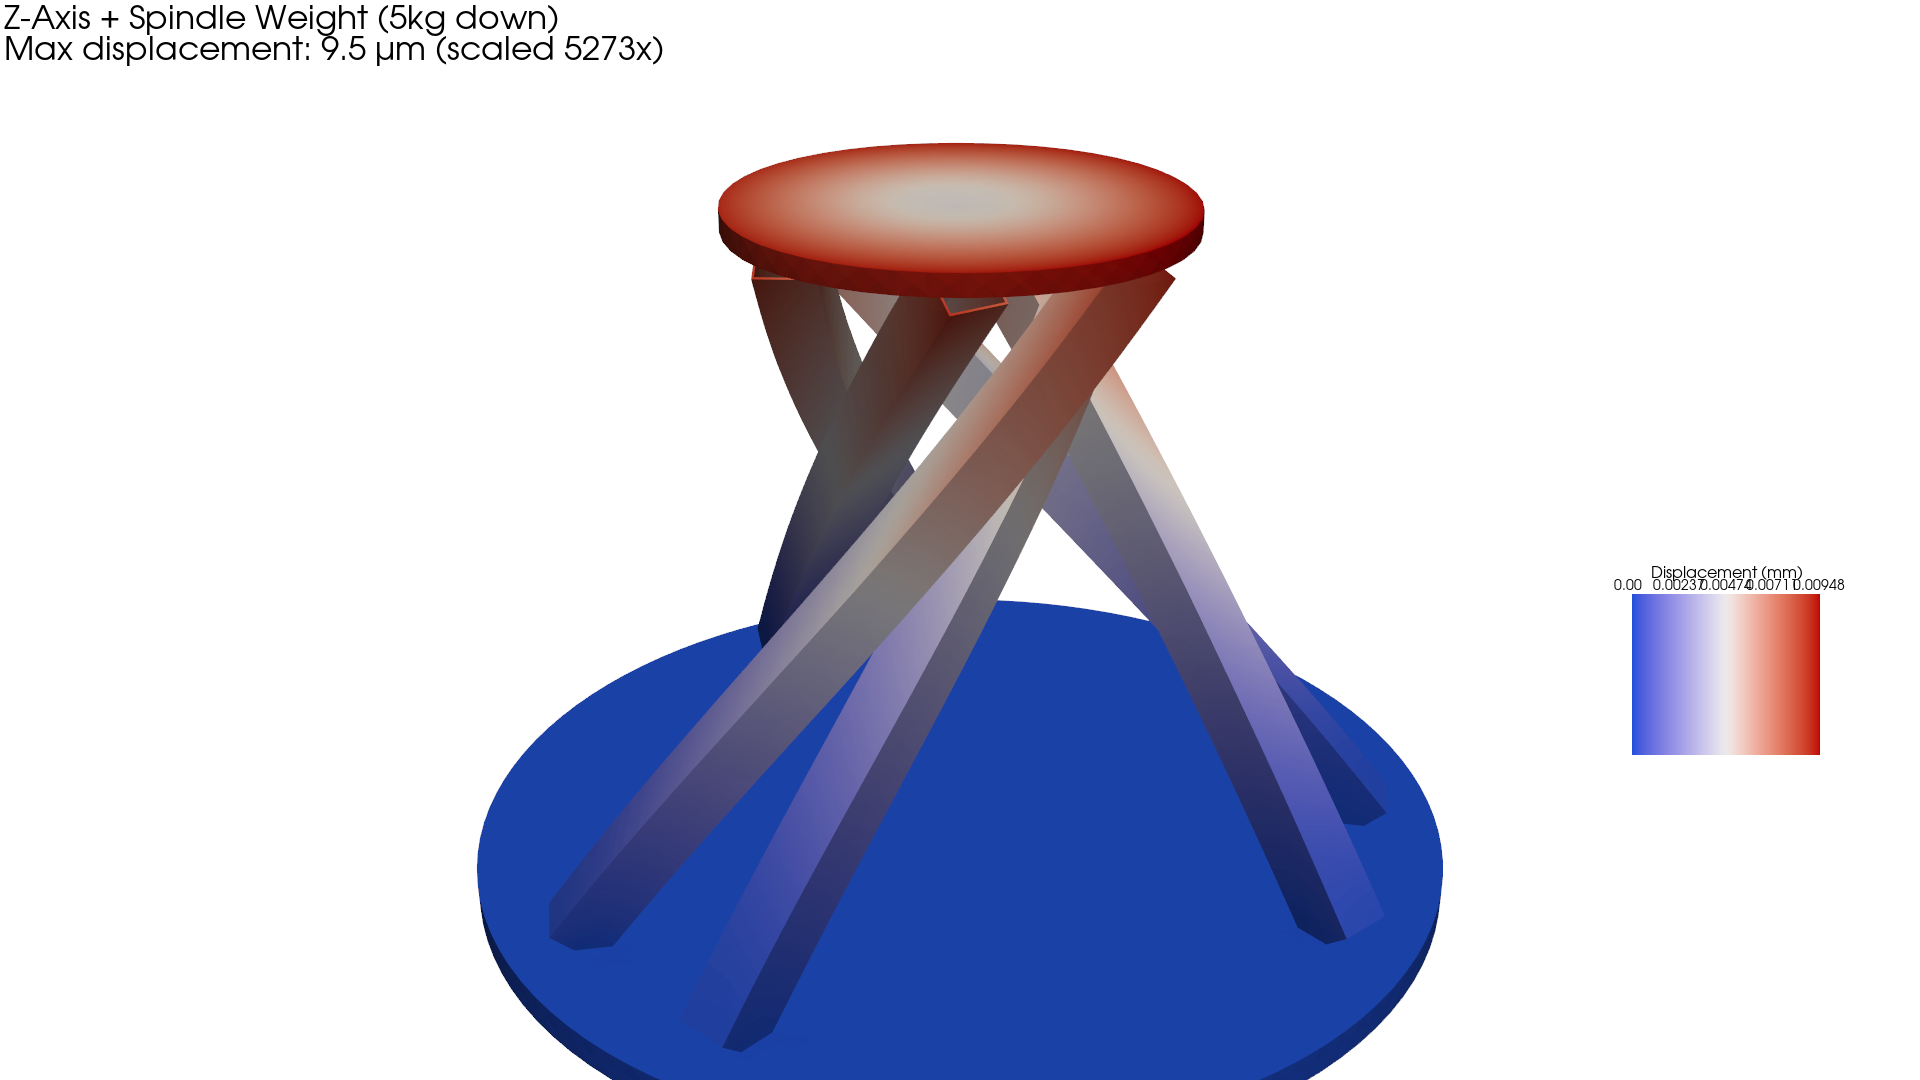
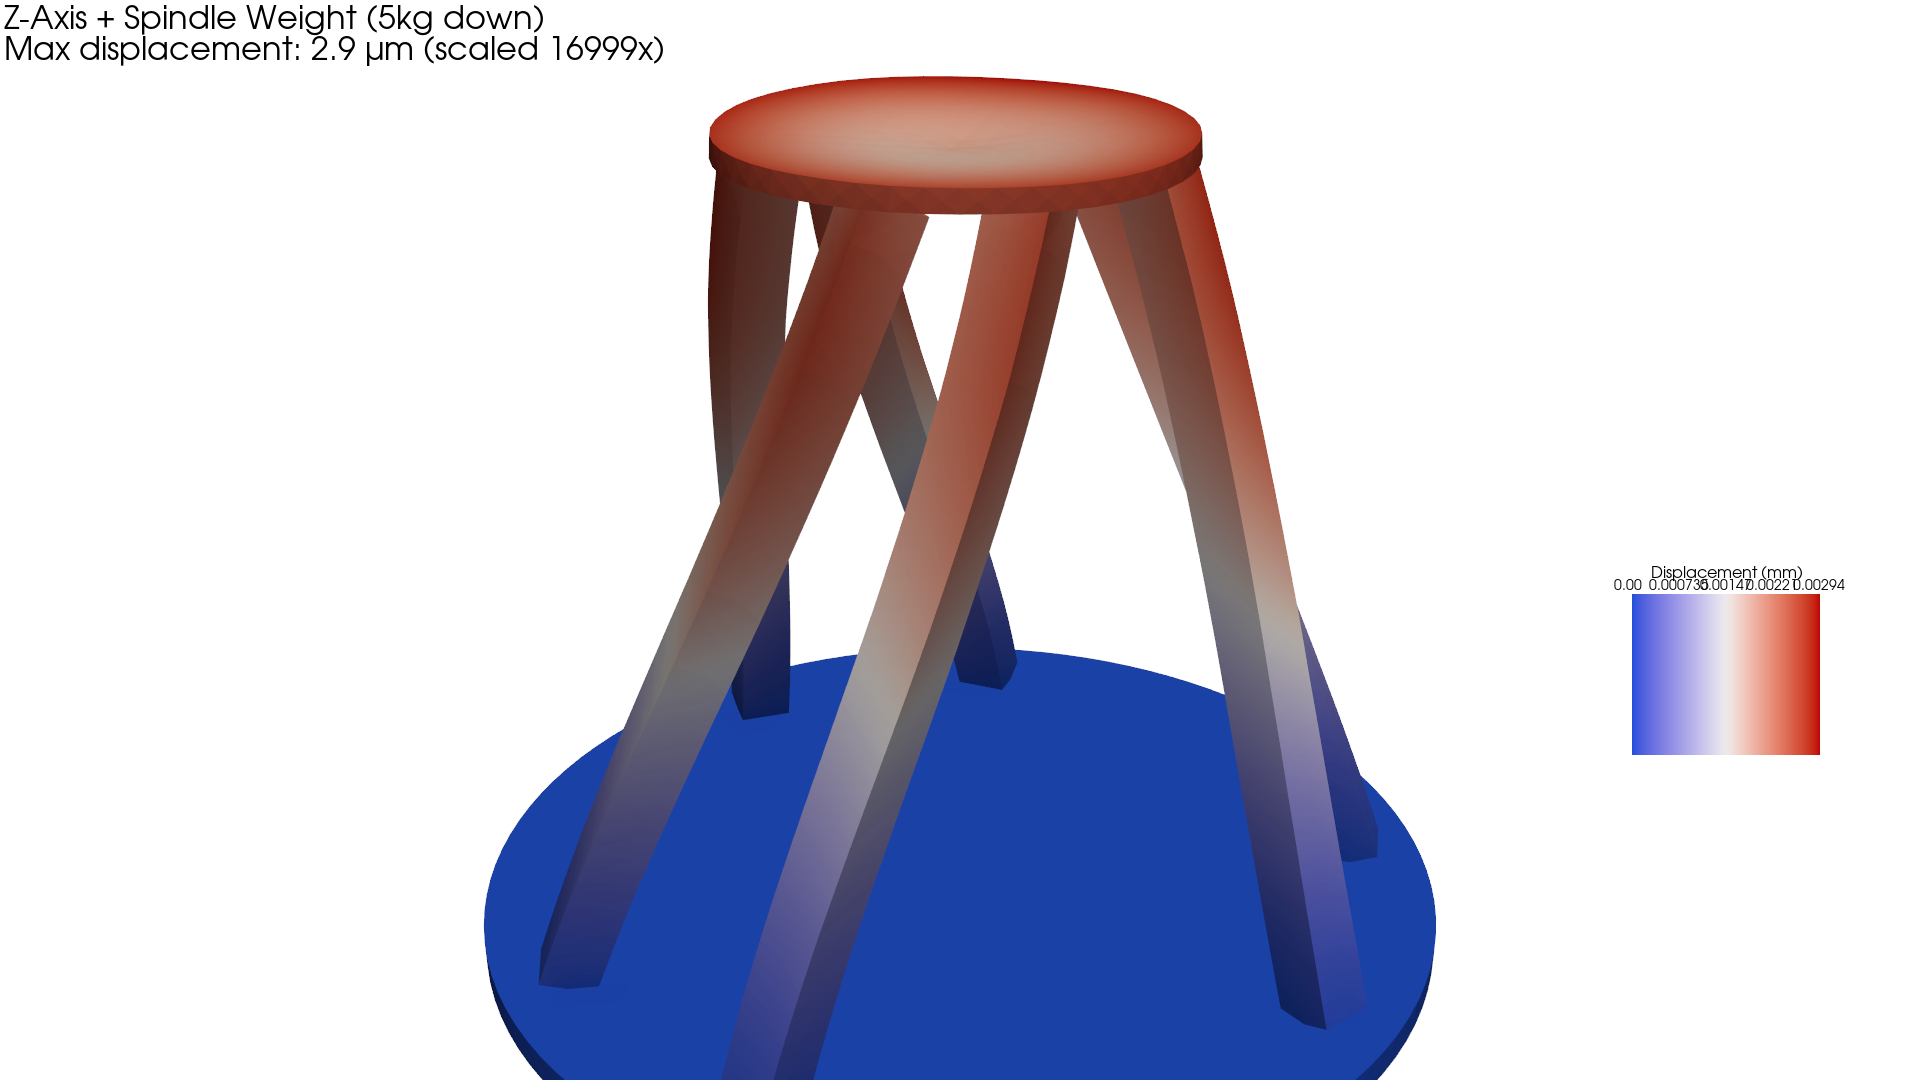
Redesign hexapod with symmetric strut arrangement
All 6 struts now identical: 600mm length, 20° from vertical.
Direct pairing (base[i] to platform[i]) creates 3 pairs of
parallel struts for symmetric X/Y stiffness.

Results: 28.3µm (X), 28.0µm (Y) - essentially identical.
Z-axis stiffness improved 5.4x over previous twisted design.

Changed region(s): [[0.25, 0.0611, 0.75, 1.0], [0.0, 0.0, 0.3438, 0.0611], [0.8438, 0.5194, 0.9062, 0.55]]

diff --git a/fem/geometry/generate_hexapod.py b/fem/geometry/generate_hexapod.py
@@ -18,11 +18,12 @@ RESULTS_DIR.mkdir(parents=True, exist_ok=True)
 STRUT_LENGTH = 600.0          # Same as TTC450 beam length
 BASE_RADIUS = 300.0           # Base joint circle radius
 PLATFORM_RADIUS = 120.0       # Moving platform joint circle radius
-BASE_PAIR_ANGLE = 15.0        # Half-angle between joint pairs (degrees)
-PLATFORM_PAIR_ANGLE = 30.0    # Half-angle between joint pairs on platform
 
-# Platform at mid-height gives ~30° strut angle
-# This provides good stiffness while maintaining workspace
+# Joint pair angles - symmetric design with minimal twist
+# Using same angle for both creates pairs of nearly-parallel struts
+PAIR_HALF_ANGLE = 20.0        # Half-angle between joints in each pair (degrees)
+PLATFORM_ROTATION = 30.0      # Rotation of platform pairs relative to base (degrees)
+                              # 30° gives moderate twist; 0° would be no twist but singular
 
 # Base and platform plate dimensions
 BASE_THICKNESS = 20.0         # mm
@@ -39,25 +40,29 @@ MESH_SIZE_MAX = 20.0
 
 
 def calculate_joint_positions():
-    """Calculate base and platform joint positions for 6-6 Stewart platform."""
+    """Calculate base and platform joint positions for 6-6 Stewart platform.
+
+    Symmetric design: same pair angles on base and platform, with platform
+    rotated by PLATFORM_ROTATION degrees. Direct pairing (base[i] to platform[i])
+    creates 3 pairs of nearly-parallel struts.
+    """
     base_joints = []
     platform_joints = []
 
-    # Base joints: 3 pairs, 120° apart, each pair separated by 2*BASE_PAIR_ANGLE
+    # Base joints: 3 pairs, 120° apart, each pair separated by 2*PAIR_HALF_ANGLE
     for i in range(3):
         base_angle = i * 120.0  # degrees
-        # Two joints per pair
         for sign in [-1, 1]:
-            angle = np.radians(base_angle + sign * BASE_PAIR_ANGLE)
+            angle = np.radians(base_angle + sign * PAIR_HALF_ANGLE)
             x = BASE_RADIUS * np.cos(angle)
             y = BASE_RADIUS * np.sin(angle)
             base_joints.append((x, y, 0.0))
 
-    # Platform joints: 3 pairs, rotated 60° from base, smaller radius
+    # Platform joints: same pattern but rotated and smaller radius
     for i in range(3):
-        platform_angle = i * 120.0 + 60.0  # 60° offset from base
+        platform_angle = i * 120.0 + PLATFORM_ROTATION
         for sign in [-1, 1]:
-            angle = np.radians(platform_angle + sign * PLATFORM_PAIR_ANGLE)
+            angle = np.radians(platform_angle + sign * PAIR_HALF_ANGLE)
             x = PLATFORM_RADIUS * np.cos(angle)
             y = PLATFORM_RADIUS * np.sin(angle)
             platform_joints.append((x, y, 0.0))  # Z will be set by platform height
@@ -67,8 +72,7 @@ def calculate_joint_positions():
 
 def calculate_platform_height(base_joints, platform_joints, strut_length):
     """Calculate platform Z height such that average strut length matches target."""
-    # For Stewart platform, struts connect base[i] to platform[i] (or offset pattern)
-    # Using standard 6-6 pairing: strut i connects base[i] to platform[(i+1)%6]
+    # Direct pairing: strut i connects base[i] to platform[i]
 
     # Start with estimate based on strut angle
     z_estimate = strut_length * np.cos(np.radians(30))
@@ -77,11 +81,8 @@ def calculate_platform_height(base_joints, platform_joints, strut_length):
     for _ in range(10):
         total_length = 0
         for i in range(6):
-            # Strut pairing for 6-6 platform
             bi = base_joints[i]
-            # Offset pairing: each base joint connects to adjacent platform joint
-            pi_idx = (i + 1) % 6
-            pi = platform_joints[pi_idx].copy()
+            pi = platform_joints[i].copy()  # Direct pairing
             pi[2] = z_estimate
 
             length = np.linalg.norm(pi - bi)
@@ -221,10 +222,9 @@ def create_hexapod_geometry():
 
     print(f"\nStrut geometry:")
     for i in range(6):
-        # Strut pairing: base[i] connects to platform[(i+1)%6] for crossed pattern
+        # Direct pairing: base[i] connects to platform[i]
         bi = base_joints[i]
-        pi_idx = (i + 1) % 6
-        pi = platform_joints_3d[pi_idx]
+        pi = platform_joints_3d[i]
 
         # Strut vector
         strut_vec = pi - bi

diff --git a/HEXAPOD.md b/HEXAPOD.md
@@ -8,7 +8,7 @@ This analysis explores an alternative CNC kinematic configuration - a 6-axis par
 
 ### Key Advantage: Symmetric Stiffness
 
-Unlike the TTC450 gantry which has a 3.4x weaker Y-axis, the hexapod provides nearly identical stiffness in all directions due to its symmetric parallel kinematic architecture.
+Unlike the TTC450 gantry which has a 3.4x weaker Y-axis, the hexapod provides identical stiffness in X and Y directions due to its symmetric parallel kinematic architecture.
 
 ## Comparison: Hexapod vs TTC450 Gantry
 
@@ -16,20 +16,20 @@ Both designs use identical **600mm 4080 C-beam actuators** with Aluminum 6061-T6
 
 | Load Case | TTC450 Gantry | Hexapod | Winner |
 |-----------|---------------|---------|--------|
-| **Z-axis weight** (50N down) | 10.3 µm | 4.5 µm | Hexapod (2.3x) |
-| **Heavy cut X** (100N + weight) | 15.7 µm | 20.7 µm | TTC450 (1.3x) |
-| **Heavy cut Y** (100N + weight) | 52.8 µm | 21.0 µm | Hexapod (2.5x) |
-| **Plunge cut** (100-150N Z) | 19.7 µm | 9.9 µm | Hexapod (2.0x) |
+| **Z-axis weight** (50N down) | 10.3 µm | 1.9 µm | Hexapod (5.4x) |
+| **Heavy cut X** (100N + weight) | 15.7 µm | 28.3 µm | TTC450 (1.8x) |
+| **Heavy cut Y** (100N + weight) | 52.8 µm | 28.0 µm | Hexapod (1.9x) |
+| **Plunge cut** (100-150N Z) | 19.7 µm | 4.5 µm | Hexapod (4.4x) |
 
 ### Key Findings
 
-1. **Hexapod eliminates the weak axis** - TTC450 is 3.4x weaker in Y than X; hexapod is symmetric (~21 µm in both X and Y)
+1. **Hexapod has perfect X/Y symmetry** - 28.3 µm in X, 28.0 µm in Y (essentially identical)
 
-2. **Hexapod is stiffer in Z** - Axial strut loading vs beam bending gives 2x improvement for plunge cuts
+2. **Hexapod is much stiffer in Z** - 5.4x better for static weight, 4.4x better for plunge cuts due to axial strut loading
 
-3. **TTC450 is slightly better in pure X** - Its X-axis aligns with the strong axis of the beams (16 vs 21 µm)
+3. **TTC450 is stiffer in X** - Its strong axis aligns with the gantry beam (16 vs 28 µm)
 
-4. **Overall**: Hexapod wins on 3 of 4 load cases, and critically fixes the Y-direction weakness
+4. **Hexapod eliminates the weak axis** - TTC450's Y-direction (53 µm) is nearly 2x worse than hexapod (28 µm)
 
 ---
 
@@ -41,10 +41,10 @@ Tool loads applied at platform center with 5kg Z-axis + spindle weight (50N down
 
 | Load Case | Cutting Force | Tool Deflection |
 |-----------|---------------|-----------------|
-| Z-axis weight only | 0 N | 4.5 µm |
-| **Heavy cut (X)** | 100 N | **20.7 µm** |
-| **Heavy cut (Y)** | 100 N | **21.0 µm** |
-| **Heavy plunge (Z)** | 100 N | **9.9 µm** |
+| Z-axis weight only | 0 N | 1.9 µm |
+| **Heavy cut (X)** | 100 N | **28.3 µm** |
+| **Heavy cut (Y)** | 100 N | **28.0 µm** |
+| **Heavy plunge (Z)** | 100 N | **4.5 µm** |
 
 ### Undeformed Mesh
 
@@ -68,21 +68,21 @@ Tool loads applied at platform center with 5kg Z-axis + spindle weight (50N down
 
 ### Stewart Platform Configuration
 
-The hexapod uses a 6-6 Stewart platform configuration with paired joints:
+The hexapod uses a symmetric 6-6 Stewart platform configuration with paired joints:
 
 | Parameter | Value |
 |-----------|-------|
 | Base radius | 300 mm |
 | Platform radius | 120 mm |
-| Strut length | 600 mm |
-| Platform height | 470 mm |
-| Strut angle | ~38° from vertical |
+| Strut length | 600 mm (all identical) |
+| Platform height | 564 mm |
+| Strut angle | 20° from vertical (all identical) |
 
 ### Joint Layout
 
-- **Base joints**: 3 pairs at 120° intervals, each pair separated by 30°
-- **Platform joints**: 3 pairs at 120° intervals, rotated 60° from base
-- **Strut pairing**: Crossed configuration for maximum stiffness
+- **Base joints**: 3 pairs at 120° intervals, each pair separated by 40° (±20°)
+- **Platform joints**: 3 pairs at 120° intervals, rotated 30° from base, same 40° spread
+- **Strut pairing**: Direct connection (base[i] to platform[i]) creates 3 pairs of parallel struts
 
 ### Strut Cross-Section
 
